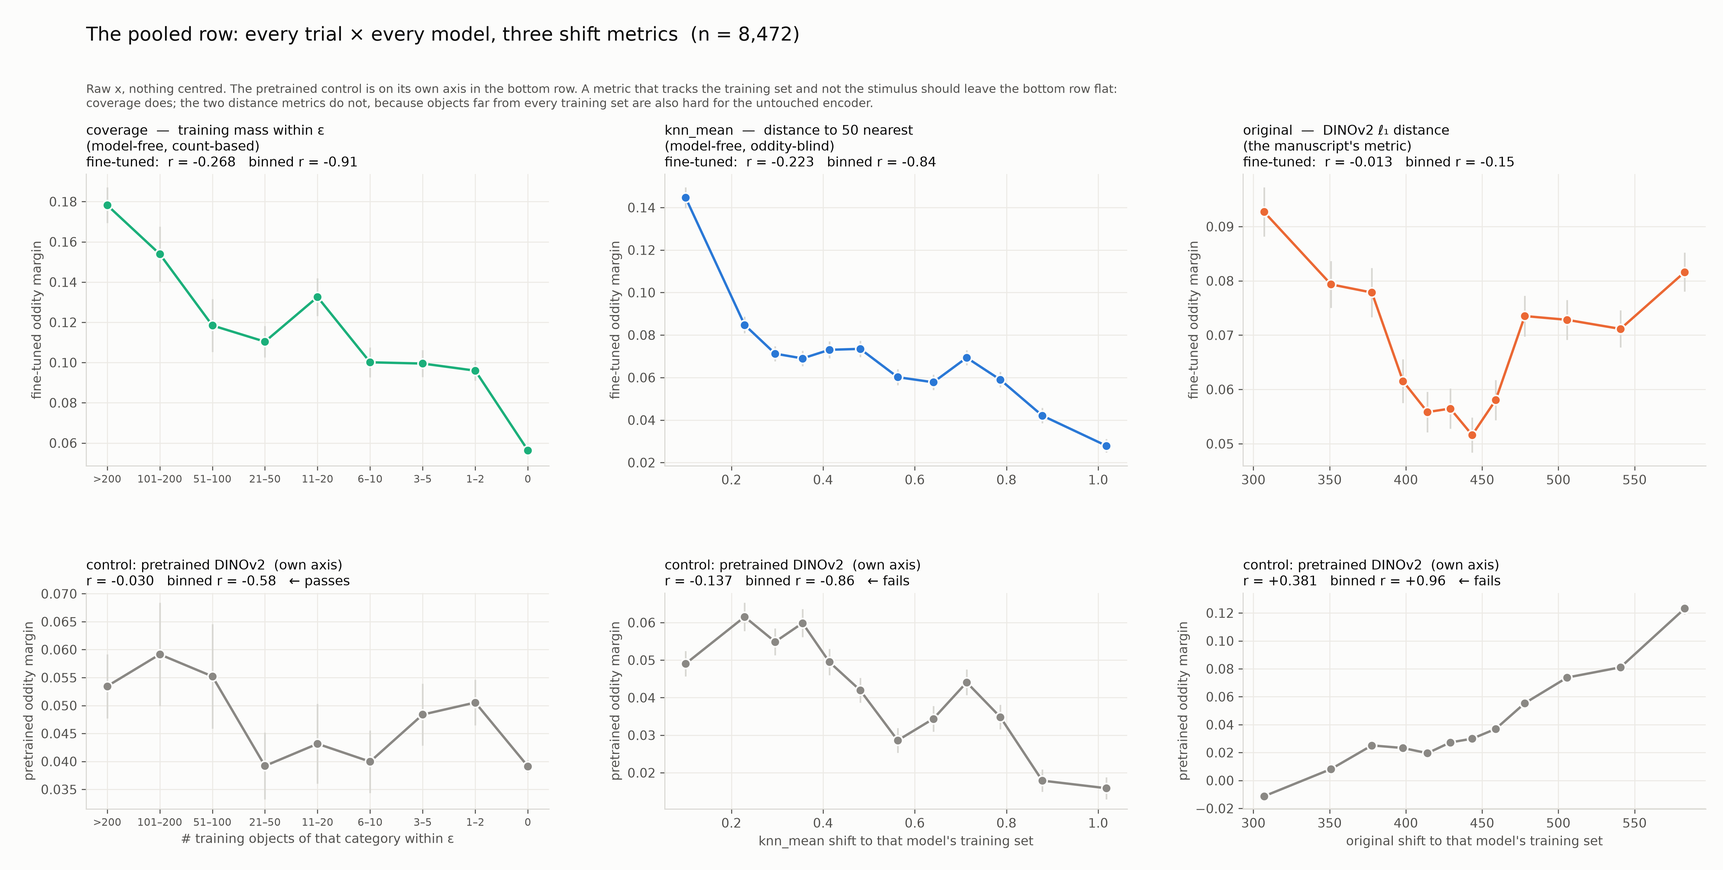
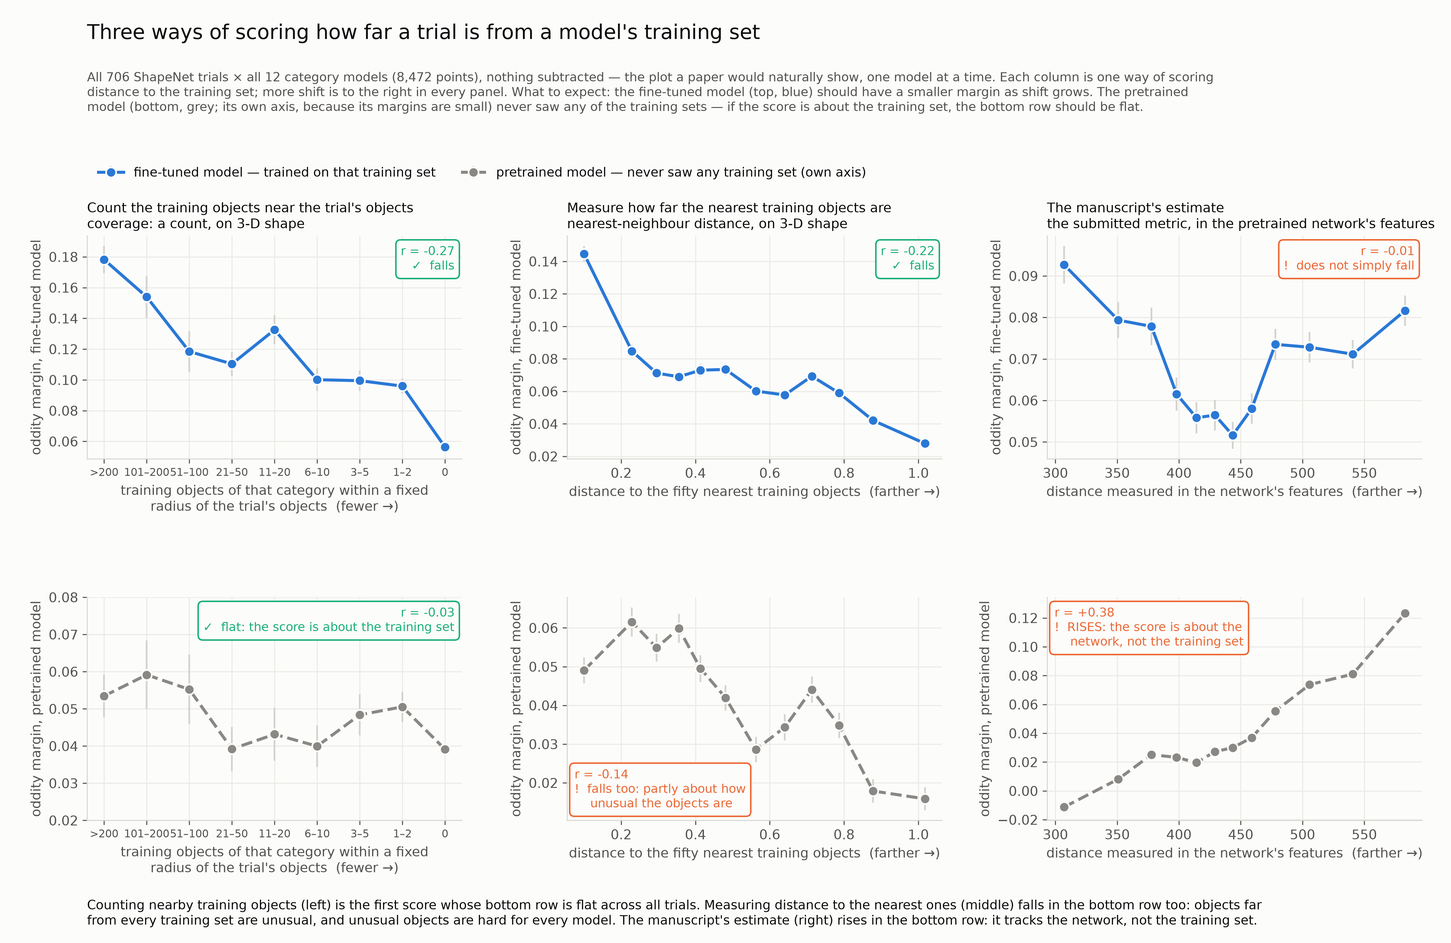
Coverage state rewritten for a cold reader; fig56 and fig58 rebuilt to the recipe; lint ignores link targets
Claude-Session: https://claude.ai/code/session_017LnypoNuPTEd3UcTymGK1X

diff --git a/scratch/fig_coverage_recipe.py b/scratch/fig_coverage_recipe.py
@@ -1,0 +1,87 @@
+"""Two figures for the coverage state, both to the state-figure recipe.
+fig56: three ways of scoring 'how far is the trial from the training set', each against the fine-tuned
+       margin (top) and the pretrained margin on its own axis (bottom). Expect: top falls; bottom flat.
+fig58: coverage counted from the object's shape vs from training IMAGES at the test's own viewpoint vs
+       at the nearest training viewpoint; within-trial (each trial's average subtracted). Expect: if
+       models learn view-specific appearance, the actual-viewpoint count should track the margin best."""
+import numpy as np, pandas as pd
+from scipy import stats
+import matplotlib; matplotlib.use('Agg'); import matplotlib.pyplot as plt
+NAV='/vast/projects/bonnen/naturalistic-navig'; G=f'{NAV}/Dist-shift-data/geometric_shift'; S=f'{NAV}/Dist-shift/HIDA/hida-tune/ShapeNet_OOD_Analyses'
+BLUE,GREY,SURF,INK,INK2,OK,BAD,GRN,HL='#2a78d6','#8a8884','#fcfcfb','#0b0b0b','#52514e','#1baf7a','#eb6834','#1baf7a','#eb6834'
+plt.rcParams.update({'figure.facecolor':SURF,'axes.facecolor':SURF,'savefig.facecolor':SURF,'font.family':'DejaVu Sans','text.color':INK,'axes.labelcolor':INK2,'xtick.color':INK2,'ytick.color':INK2,'axes.edgecolor':'#d8d7d2','font.size':10.5,'axes.titlesize':12})
+def style(a): a.spines['top'].set_visible(False); a.spines['right'].set_visible(False); a.grid(color='#eceae5',lw=.8,zorder=0); a.set_axisbelow(True)
+def bins(x,y,nb=12):
+    q=pd.qcut(x.rank(method='first'),nb,labels=False); gg=pd.DataFrame({'q':q,'x':x,'y':y}).groupby('q'); return gg.x.mean(),gg.y.mean(),gg.y.sem()
+def box(a,txt,c,where='ur'):
+    x,y,va,ha={'ur':(0.98,0.96,'top','right'),'ul':(0.02,0.96,'top','left'),'ll':(0.02,0.04,'bottom','left'),'lr':(0.98,0.04,'bottom','right')}[where]
+    a.text(x,y,txt,transform=a.transAxes,fontsize=9.6,color=c,va=va,ha=ha,bbox=dict(boxstyle='round,pad=.4',fc=SURF,ec=c,lw=1.2))
+def line(a,x,y,e,c,ls,lab,z): a.errorbar(x,y,yerr=e,fmt='o'+ls,color=c,ms=8,mfc=c,mec=SURF,mew=1.3,lw=2.4,ecolor='#d5d3ce',elinewidth=1.4,zorder=z,label=lab)
+EMP='trial_distance_(L1_not_normalized)'
+d=pd.read_csv(f'{G}/out/coverage_shapenet_voxel16_percat.csv'); m=pd.read_csv(f'{NAV}/MOCHI/mochi_trials.csv'); rows=[]
+for cat in sorted(d.category.unique()):
+    o=pd.read_csv(f'{S}/{cat}/ood_analysis_results.csv'); o['trial']=m['trial'].values; o['category']=cat; rows.append(o[['trial','category',EMP]])
+d=d.merge(pd.concat(rows),on=['trial','category']).rename(columns={EMP:'orig'})
+# coverage = -log(1+count): 0 when nothing is nearby, more negative with more training objects. 85% of pairs sit at 0,
+# so bin on the raw COUNT with fixed edges (agent/CHECKS.md), not on quantiles of the score.
+CEDGES=[0,1,3,6,11,21,51,101,201,10**9]; CLAB=['0','1–2','3–5','6–10','11–20','21–50','51–100','101–200','>200']
+d['cbin']=pd.cut(d['count'],bins=[-0.5,0.5,2.5,5.5,10.5,20.5,50.5,100.5,200.5,1e12],labels=CLAB)
+def cbins(y):
+    gg=d.groupby('cbin',observed=True)[y]; return np.arange(len(CLAB))[::-1], gg.mean().reindex(CLAB).values, gg.sem().reindex(CLAB).values
+d['shift_cov']=d.coverage
+# ---------- fig56
+fig,ax=plt.subplots(2,3,figsize=(16,10.4)); fig.subplots_adjust(left=.06,right=.98,top=.75,bottom=.13,hspace=.62,wspace=.28)
+cols=[('shift_cov','Count the training objects near the trial\'s objects','training objects of that category within a fixed\nradius of the trial\'s objects  (fewer →)','coverage: a count, on 3-D shape'),
+      ('knn','Measure how far the nearest training objects are','distance to the fifty nearest training objects  (farther →)','nearest-neighbour distance, on 3-D shape'),
+      ('orig','The manuscript\'s estimate','distance measured in the network\'s features  (farther →)','the submitted metric, in the pretrained network\'s features')]
+for j,(k,t,xl,sub) in enumerate(cols):
+    x=d[k]; rf=stats.pearsonr(x,d.ft)[0]; rp=stats.pearsonr(x,d.pre)[0]
+    if k=='shift_cov': bx,bf,ef=cbins('ft'); _,bp,ep=cbins('pre')
+    else: bx,bf,ef=bins(x,d.ft); _,bp,ep=bins(x,d.pre)
+    a=ax[0,j]; style(a); line(a,bx,bf,ef,BLUE,'-','fine-tuned model — trained on that training set',4)
+    a.set_title(f'{t}\n{sub}',loc='left',fontsize=10.5); a.set_ylabel('oddity margin, fine-tuned model'); a.set_xlabel(xl)
+    if k=='shift_cov':
+        for aa in (ax[0,j],ax[1,j]): aa.set_xticks(np.arange(len(CLAB))[::-1]); aa.set_xticklabels(CLAB,fontsize=8.5)
+    box(a,f'r = {rf:+.2f}\n'+('✓  falls' if rf<-0.1 else '!  does not simply fall'),OK if rf<-0.1 else BAD)
+    a=ax[1,j]; style(a); line(a,bx,bp,ep,GREY,'--','pretrained model — never saw any training set (own axis)',3)
+    a.set_ylabel('oddity margin, pretrained model'); a.set_xlabel(xl)
+    passed=abs(rp)<0.08
+    box(a,f'r = {rp:+.2f}\n'+('✓  flat: the score is about the training set' if passed else ('!  falls too: partly about how\n    unusual the objects are' if rp<0 else '!  RISES: the score is about the\n    network, not the training set')),OK if passed else BAD,where={'shift_cov':'ur','knn':'ll','orig':'ul'}[k])
+    if j==0: a.set_ylim(0.02,0.08)
+h1,l1=ax[0,0].get_legend_handles_labels(); h2,l2=ax[1,0].get_legend_handles_labels(); fig.legend(h1+h2,l1+l2,loc='upper left',bbox_to_anchor=(.06,.835),ncol=2,fontsize=10,frameon=False)
+fig.suptitle('Three ways of scoring how far a trial is from a model\'s training set',fontsize=16,x=.06,ha='left',y=.975)
+fig.text(.06,.925,'All 706 ShapeNet trials × all 12 category models (8,472 points), nothing subtracted — the plot a paper would naturally show, one model at a time. Each column is one way of scoring\n'
+ 'distance to the training set; more shift is to the right in every panel. What to expect: the fine-tuned model (top, blue) should have a smaller margin as shift grows. The pretrained\n'
+ 'model (bottom, grey; its own axis, because its margins are small) never saw any of the training sets — if the score is about the training set, the bottom row should be flat.',fontsize=9.8,color=INK2,va='top')
+fig.text(.06,.015,'Counting nearby training objects (left) is the first score whose bottom row is flat across all trials. Measuring distance to the nearest ones (middle) falls in the bottom row too: objects far\n'
+ 'from every training set are unusual, and unusual objects are hard for every model. The manuscript\'s estimate (right) rises in the bottom row: it tracks the network, not the training set.',fontsize=10,color=INK,va='bottom')
+fig.savefig(f'{G}/out/figures/fig56_pooled_three_metrics.png',dpi=300); print('[fig] 56')
+# ---------- fig58
+v_act=pd.read_csv(f'{G}/out/viewdepth_long_full.csv'); v_near=pd.read_csv(f'{G}/out/viewdepth_long_full_fixed15_nearest.csv')
+EPS='img_cov0.3'
+w=v_act[['trial','category','obj_cov','ft','pre',EPS]].rename(columns={EPS:'act'}).merge(v_near[['trial','category',EPS]].rename(columns={EPS:'near'}),on=['trial','category'])
+g=w.groupby('trial'); 
+for k in ['obj_cov','act','near','ft','pre']: w[k+'_c']=w[k]-g[k].transform('mean')
+fig,ax=plt.subplots(1,3,figsize=(16,7.6),sharey=True); fig.subplots_adjust(left=.06,right=.98,top=.66,bottom=.19,wspace=.12)
+panels=[('obj_cov_c','from the objects\' 3-D shape','training objects with a similar shape'),
+        ('near_c','from training images,\nnearest training viewpoint','training images that look like the object\nfrom the closest camera the training set used'),
+        ('act_c','from training images,\nthe test\'s actual viewpoint','training images that look like the object as the\ntest shows it (camera recovered from the silhouette)')]
+FE=[-9,-1.5,-1,-0.6,-0.3,-0.1,0.1,0.3,0.6,1,1.5,9]
+def fbins(x,y):
+    q=pd.cut(x,FE); gg=pd.DataFrame({'q':q,'x':x,'y':y}).groupby('q',observed=True); return gg.x.mean(),gg.y.mean(),gg.y.sem()
+for a,(k,t,sub) in zip(ax,panels):
+    style(a); x=w[k]; rf=stats.pearsonr(x,w.ft_c)[0]
+    bx,bf,ef=fbins(x,w.ft_c); _,bp,ep=fbins(x,w.pre_c)
+    line(a,bx,bp,ep,GREY,'--','pretrained model (flat: same model on all twelve points)',3); line(a,bx,bf,ef,BLUE,'-','fine-tuned model',4)
+    a.set_title(f'Counted {t}\n{sub}',loc='left',fontsize=10); a.set_xlabel('fewer training items nearby  →\n(relative to the trial\'s average)')
+    strong=rf<-0.35
+    box(a,f'fine-tuned r = {rf:+.2f}\n'+('✓  the full effect' if strong else '!  weaker — and not because the\n    camera was recovered badly'),OK if strong else BAD)
+ax[0].set_ylabel('oddity margin, relative to the trial\'s average')
+h,l=ax[0].get_legend_handles_labels(); fig.legend(h,l,loc='upper left',bbox_to_anchor=(.06,.79),ncol=2,fontsize=10,frameon=False)
+fig.suptitle('Does it matter which viewpoint the training images showed?',fontsize=16,x=.06,ha='left',y=.975)
+fig.text(.06,.92,'Same 706 trials × 12 models, each trial\'s own average subtracted (so only the training set differs between a trial\'s twelve points). Coverage — how much training data sits\n'
+ 'near the test object — is counted three ways. What to expect: if models learn what objects look like from particular viewpoints, counting training images from the test\'s actual\n'
+ 'viewpoint (right) should track the margin best. If they learn the object, all three should look alike.',fontsize=9.8,color=INK2,va='top')
+fig.text(.06,.015,'Counting from the object\'s shape and from training images at the nearest training viewpoint give the same curve. Only the actual test viewpoint — which falls between the training\n'
+ 'cameras, typically about 20° off — is weaker, and it stays weaker on the trials where the camera was recovered well. Within the ~25° spacing of the training views, the viewpoint does not matter.',fontsize=10,color=INK,va='bottom')
+fig.savefig(f'{G}/out/figures/fig58_viewdepth_ladder.png',dpi=300); print('[fig] 58')

diff --git a/scripts/state_lint.py b/scripts/state_lint.py
@@ -46,6 +46,7 @@ def lint(path):
     for pat, fix in JARGON.items():
         for i, l in enumerate(lines, 1):
             if l.startswith('![') or l.startswith('|') or l.startswith('<'): continue
+            l = re.sub(r'\]\([^)]*\)', ']()', l)   # ignore link targets (filenames)
             mm = re.search(pat, l, flags=re.I)
             if mm:
                 if mm.group(0).lower() not in ok: hits.append((i, 'jargon', f'"{mm.group(0)}" → {fix}  (silence with <!-- lint: ok {mm.group(0).lower()} --> once it is defined in this file)'))

diff --git a/states/04-coverage.md b/states/04-coverage.md
@@ -1,36 +1,31 @@
-# Coverage: counting training mass rather than measuring distance
-A coverage estimate passes the control in the pooled row where every distance measure failed; two earlier claims are corrected; and a test of whether support is view-conditioned comes back negative within the training grid.
+# Counting nearby training data instead of measuring distance to it
+A score that counts how many training objects sit near the test objects is the first one that behaves across all trials at once — the model that never saw the training data stays flat — and the viewpoint from which the training images were rendered turns out not to matter.
 
 *Snapshot: after the coverage result · Lead: TB* · ← [previous](03-a-model-free-ruler.md) · [index](README.md) · [resources](../RESOURCES.md) · next → [next](05-the-within-category-limit.md)
 
 ## Goal
 Find a way to use the oddity margin as a proxy for distribution shift — the distance between what a model was trained on and what it is tested on — and establish that it really is one: a shift estimate the margin tracks, computed in a way that cannot be gamed. The NeurIPS reviews questioned whether the manuscript's estimate measures shift at all. We are working out how much of that to take on board and how much to set aside, by testing rather than arguing.
 ## Status
-**Coverage, not distance.** Every estimator so far asked *how far* the nearest training objects are. Coverage asks *how much* training mass is near the object: count the category's training objects within a cosine radius ε of each image, take −log(1+count), average over the trial. The difference is the ceiling — "no training objects nearby" is the most shift there is — so object atypicality saturates instead of spreading, and stops leaking into the pooled row [[D05](../REASONING.md#D05)].
+**Where we were.** We had a distance measured on the objects' 3-D shape, with no neural network in it, and a way of showing that moving a model's training data moves its oddity margin: compare the twelve category-trained models on the very same trial, so that nothing about the trial can differ between them. But that comparison only works within a trial. Plotted the ordinary way — every trial against every model, the plot a paper would show — every distance we had tried still failed the same check: the pretrained model, which never saw any of the training sets, had smaller margins on trials that were far from them. The distance was still partly reporting how unusual the objects are, and unusual objects are hard for every model.
 
-| voxel16 | kNN distance | coverage |
-|---|---|---|
-| within-trial r | −0.329 | **−0.424** |
-| pooled r / pretrained control | −0.223 / −0.137 | **−0.268 / −0.030** |
-| held-out (ε chosen on the other half) | −0.328 | −0.414, wins 20/20 |
+**A different kind of score.** All of those distances asked *how far away* the nearest training objects are. The alternative is to ask *how many* training objects are nearby: draw a fixed radius around each of the trial's objects (in the same 3-D-shape description as before), count the training objects of that category inside it, and turn the count into a score that grows as the count shrinks. We call this coverage. The important difference is at the far end. A distance keeps growing for objects that are far from everything, so the most unusual objects get the most extreme scores. A count stops at zero — "no training objects nearby" is the most shift there is, and an object that is a little farther still gets the same score. That is what keeps how-unusual-the-object-is from spreading along the axis [[D05](../REASONING.md#D05)].
 
-![coverage against kNN across ε](../evidence/fig50_coverage.png)
-![the pooled row in Fig 25's template: the control is flat under coverage](../evidence/fig52_coverage_pooled_control.png)
+**What it does.** The figure below puts three scores side by side on the plot a paper would show — all 706 trials, all twelve models, nothing subtracted. In each column the top panel is the fine-tuned model, which should have a smaller margin as shift grows, and the bottom panel is the pretrained model on its own axis, which should be flat if the score is about the training set. Counting nearby training objects (left) is the first score whose bottom panel is flat. Distance to the nearest training objects (middle) still falls in the bottom panel. The manuscript's own estimate (right) does something worse: its bottom panel *rises* — the pretrained model is more confident on trials the estimate calls farther, because that estimate was computed from the same network's features [[D06](../REASONING.md#D06)]. The radius was chosen on one half of the trials and tested on the other, twenty times; the count won every time, so this is not a tuned coincidence.
 
-**Three metrics side by side.** Coverage, kNN, and the manuscript's original per-category distance, with the pretrained control on its own axis. The original metric's control rises with it (binned +0.96; r +0.38 pooled, +0.61 on-category) and its fine-tuned curve is U-shaped — it behaves only after two-way centring [[D06](../REASONING.md#D06)].
+![Three scores on the plot a paper would show: only counting nearby training objects leaves the pretrained model flat](../evidence/fig56_pooled_three_metrics.png)
 
-![pooled, three metrics, control on its own axis](../evidence/fig56_pooled_three_metrics.png)
+**Does the viewpoint matter?** A network is trained on images, not on objects, and each training object was rendered from fifteen fixed camera positions. So perhaps what a model learns is view-specific, and coverage should count training *images* that look like the test image, from the test's own viewpoint, rather than training objects with a similar shape. We built this without a renderer or a network: each object's 3-D shape is projected to a depth map from a chosen camera, and the test images' cameras were recovered by matching silhouettes (they match the true silhouette 86% on average). Below, coverage is counted three ways, comparing the twelve models within each trial as before. Counting from the object's shape and counting from training images at the nearest training camera give the same curve. Counting from the test's actual camera — which sits between the training cameras, typically about 20° off — is weaker, and it stays weaker on the trials where the camera was recovered well, so this is not a pose-estimation error. Within the roughly 25° spacing of the training views, viewpoint does not matter [[D08](../REASONING.md#D08)].
 
-**Images, not objects?** Hypothesis: encoders learn view-conditioned appearance, so coverage should count training *images*. Built model-free (depth maps projected from voxels; MOCHI cameras recovered by silhouette matching, IoU 0.86). Any on-grid view recovers the full effect (−0.42 to −0.44); only the actual off-grid MOCHI view loses it (−0.27), not from pose error. Within the training grid's ~25° gaps, support is view-invariant [[D08](../REASONING.md#D08)].
+![Coverage counted from the object's shape, from training images at the nearest training viewpoint, and from training images at the test's actual viewpoint](../evidence/fig58_viewdepth_ladder.png)
 
-![the view-conditioning ladder](../evidence/fig58_viewdepth_ladder.png)
+Reviewer r64w had asked what an object-based measure averaged over all views would do. This is that measure, and it does at least as well as the view-specific one: the reviewer's question turned out to be the right test.
 
-r64w had asked what an object-based measure averaged over all views would do. This is that measure, and it does at least as well as the view-conditioned one — the reviewer's question turned out to be the right test of the hypothesis.
+**A correction carried forward.** In the first state we reported that the manuscript's estimate agreed with a shape-based distance on the ShapeGen objects (|r| = 0.74). Once the estimate is computed without comparing the two objects to each other, that agreement drops to 0.12: what had agreed was the difference between the two objects, which both estimates contained. The earlier claim is withdrawn [[D06](../REASONING.md#D06)].
 
-**Correction carried forward.** With the oddity-blind form, the shapegen encoder comparison from State 0's reproduction goes from |r| 0.74 to 0.12: it had been d(A,B) at r = 0.993. Withdrawn [[D06](../REASONING.md#D06)].
+**What is still open.** Restricting to one point per trial — only the model trained on the trial's own category — the count seems to track the margin in a graded way (a binned correlation of −0.78). If that holds up, it would mean the margin responds to *how much* of the category the model saw near this object, not just to whether the category was in the training set at all. But a correlation across trials from twelve different categories can come from the categories differing from each other, not from anything inside a category. That has to be tested before it is claimed.
 
 ## Strategy
-The on-category row under coverage looks graded (binned r −0.78). Test whether it is — category-centre it, look inside each category — before claiming a within-category result.
+Take the one-model-per-trial result apart: subtract each category's own average from both axes, and look inside each category separately. Only if a relationship survives inside categories is it a within-category result.
 
 ## Resources used
 | | this state | cumulative |

diff --git a/states/02-a-form-that-escapes-the-bound.md b/states/02-a-form-that-escapes-the-bound.md
@@ -21,7 +21,7 @@ Find a way to use the oddity margin as a proxy for distribution shift — the di
 **In hindsight.** r64w's suggestion of running both metrics on two random halves of one dataset is a version of the pretrained-model check that the new form passes and the original metric fails; and their question about an object-based measure averaged over views is the next thing we built.
 
 ## Strategy
-Fix the second part: leave the encoder's space. MOCHI's ShapeNet and ShapeGen trials come from known 3D assets, so distance to the training data can be measured on the *stimuli* — descriptors computed from the objects' geometry, with no encoder and no learned parameter anywhere in the ruler. The encoder then appears only where it should: as the thing being measured. Keep the encoder-space version as the comparison: if geometry ever does worse than the encoder's own space, that tells us what the descriptors are missing.
+Fix the second part: leave the encoder's space. MOCHI's ShapeNet and ShapeGen trials come from known 3D assets, so distance to the training data can be measured on the *stimuli* — descriptors computed from the objects' geometry, with no encoder and no learned parameter anywhere in the measurement. The encoder then appears only where it should: as the thing being measured. Keep the encoder-space version as the comparison: if geometry ever does worse than the encoder's own space, that tells us what the descriptors are missing.
 
 ## Resources used
 | | this state | cumulative |
@@ -42,4 +42,4 @@ Compute: the first shift computations (`clean_shift`, `cosshift`) and, for the f
 - How to separate "far from this training set" from "an unusual object" — in the encoder's space they are nearly the same distance.
 - The encoder's space shows a small within-category signal (category-centred r ≈ −0.1); will geometry?
 
-<!-- lint: ok the form, the space, by construction, ruler -->
+<!-- lint: ok the form, the space, by construction -->

diff --git a/evidence/README.md b/evidence/README.md
@@ -14,9 +14,9 @@ name their commit in this table.
 | fig50_coverage.png | `scratch/fig_entanglement_and_coverage.py` | `out/coverage_sweep_{voxel16,d57}.csv` (from `scratch/coverage_sweep.py`) | D05 |
 | fig52_coverage_pooled_control.png | `scratch/fig_coverage_gallery.py` | `bank/{bank,test}_voxel16.npz`, ε = 0.12 | D05 |
 | fig54_oncat_three_metrics.png | `scratch/fig_three_metrics.py` | `out/coverage_shapenet_voxel16_percat.csv` + `trial_distance_(L1_not_normalized)` per category | D07 |
-| fig56_pooled_three_metrics.png | `scratch/fig_three_metrics.py` | same | D05, D06 |
+| fig56_pooled_three_metrics.png | `scratch/fig_coverage_recipe.py` | same | D05, D06 |
 | fig57_oncat_anatomy.png | `scratch/fig_oncat_anatomy.py` | `out/coverage_shapenet_voxel16_percat.csv` | D07 |
-| fig58_viewdepth_ladder.png | `scratch/fig_viewdepth.py` | `out/viewdepth_battery_*.csv` (from `scratch/viewdepth_pipeline.py`, SLURM 8515465/8515516/8515529/8515554/8515600/8515622) | D08 |
+| fig58_viewdepth_ladder.png | `scratch/fig_coverage_recipe.py` | `out/viewdepth_battery_*.csv` (from `scratch/viewdepth_pipeline.py`, SLURM 8515465/8515516/8515529/8515554/8515600/8515622) | D08 |
 | fig60_why_wrong.png | `scratch/fig_why_wrong.py` | `../L1norm_vs_distshift/trials_*.csv`; three-metric numbers from `scratch/fig_three_metrics.py` | D06 |
 | manuscript_fig1.png | rendered from `Human-3D-generalization-copy/paper-to-follow-*/distributionshift_neurips2026-3.pdf` p.4 (pymupdf), cropped | the submitted manuscript | State 0 |
 | fig62_encoder_space.png | `scratch/fig_encoder_circularity.py` | `knockout/eval/encoder_space_battery.csv` (from `scratch/encoder_space_battery.py`, SLURM 8522238; features from job 8519397) | D15, State 2 |

diff --git a/states/README.md b/states/README.md
@@ -10,7 +10,7 @@ lab walkthrough; the reasoning entries they cite carry the actual dates. Click f
 | 1 | [What the manuscript's shift metric actually measures](01-what-the-metric-measures.md) | bounded by ½·d(A,B); feature norm; validated against itself |
 | 2 | [A shift estimate that is not bounded by the trial's difficulty](02-a-form-that-escapes-the-bound.md) | oddity-blind; helps but the encoder's space still leaks |
 | 3 | [Measuring distribution shift on the objects themselves, without an encoder](03-a-model-free-ruler.md) | distance on 3-D shape; comparing the twelve models on the same trial; moving the training data moves the margin |
-| 4 | [Coverage: counting training mass rather than measuring distance](04-coverage.md) | training mass within ε passes the pooled control; viewpoint tested |
+| 4 | [Counting nearby training data instead of measuring distance to it](04-coverage.md) | a count leaves the pretrained model flat across all trials; the training images' viewpoint does not matter |
 | 5 | [The within-category question needs an experiment, not another metric](05-the-within-category-limit.md) | category identity, not distance; the interventions |
 
 Each snapshot ends with the resources used up to that point (agent time, compute, dollars). What was available throughout is in [RESOURCES.md](../RESOURCES.md).
